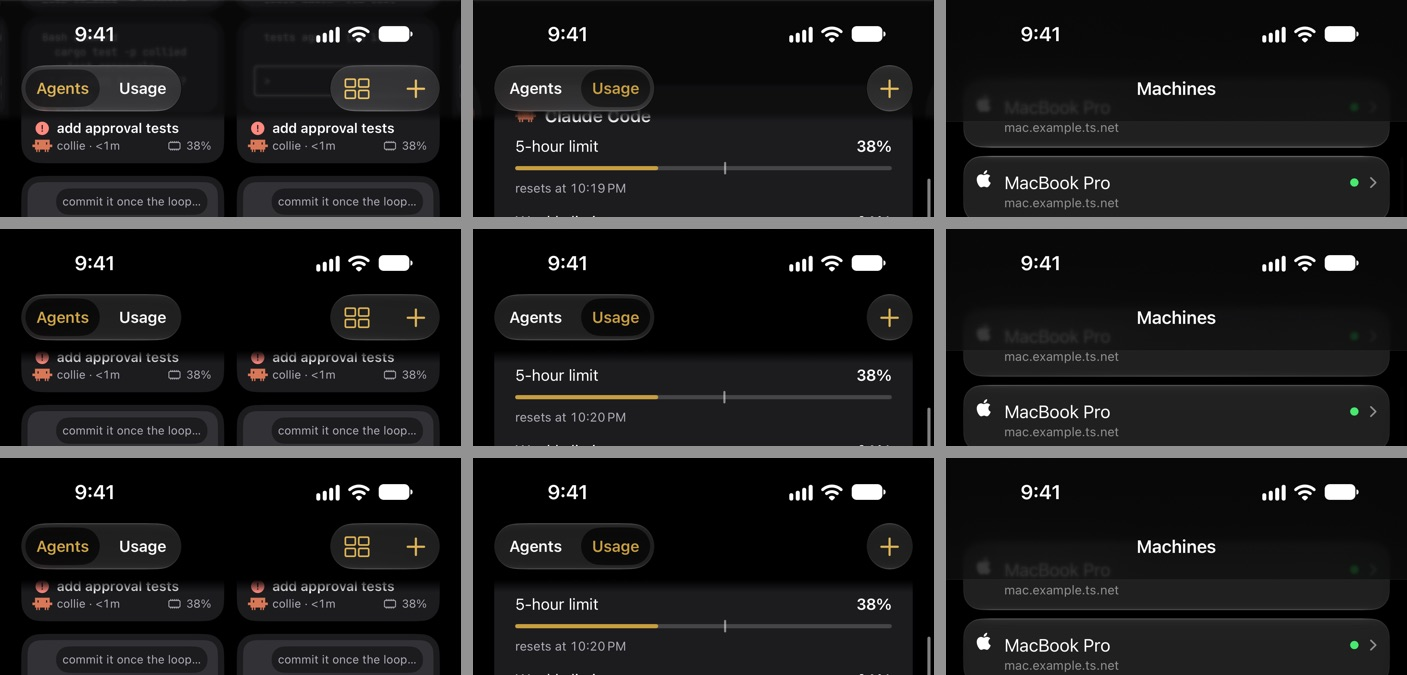
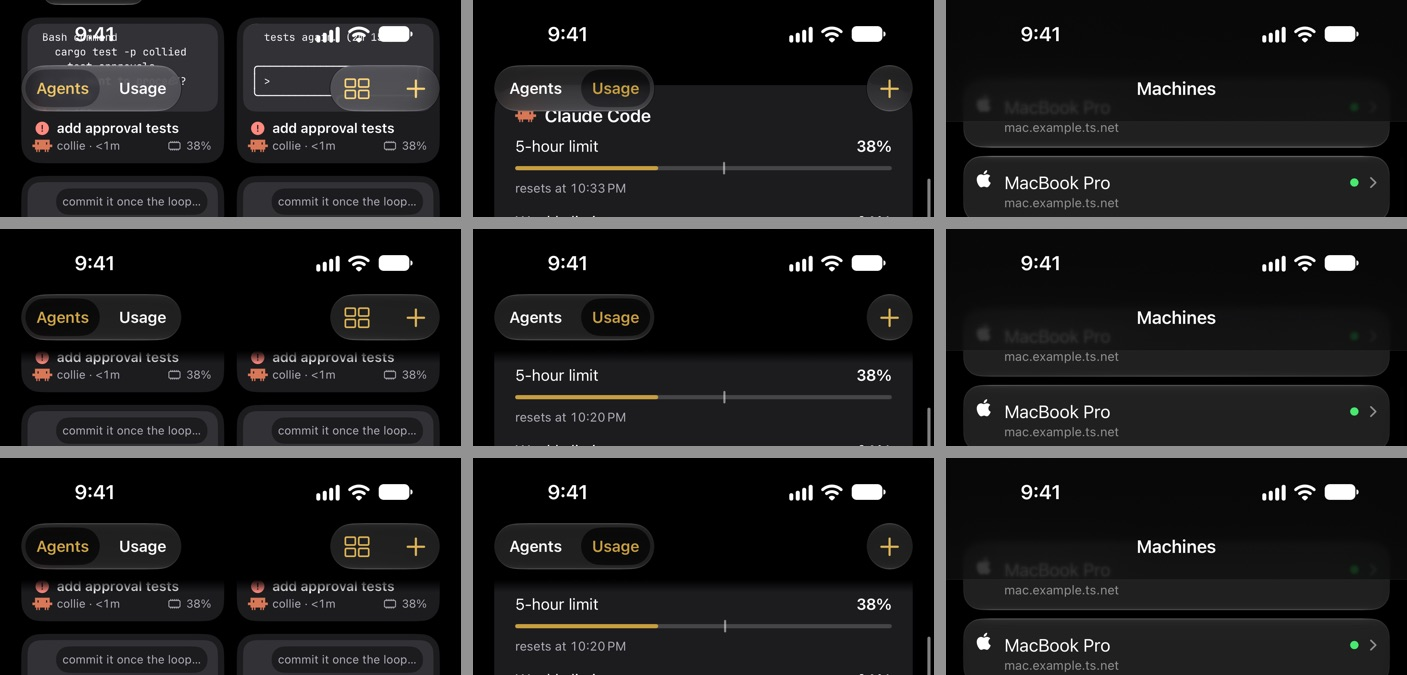
Leave the Agents tab's top band out with Clear glass

Changed region(s): [[0.0, 0.0, 0.3056, 0.1867], [0.3667, 0.1556, 0.4584, 0.1867]]

diff --git a/Collie/Sources/Collie/FlockScreen.swift b/Collie/Sources/Collie/FlockScreen.swift
@@ -53,12 +53,9 @@ struct FlockScreen: View {
             .scrollEdgeEffectHidden(true, for: [.top, .bottom])
             // UIKit's top scroll edge effect follows the pager, not the pages' own scroll views.
             .overlay(alignment: .top) {
-                GeometryReader { geometry in
-                    if glass == .clear {
-                        SessionBarGlass()
-                            .frame(height: geometry.safeAreaInsets.top)
-                            .offset(y: -geometry.safeAreaInsets.top)
-                    } else {
+                // Clear: nothing behind the bar but its controls' own glass, so content scrolls under it undimmed.
+                if glass != .clear {
+                    GeometryReader { geometry in
                         let background = Color(.systemGroupedBackground)
                         let height = geometry.safeAreaInsets.top + 12
                         // Solid under the whole bar: content fading out beside its glass controls showed through as a ghost,
@@ -69,8 +66,8 @@ struct FlockScreen: View {
                             .frame(height: height)
                             .offset(y: -geometry.safeAreaInsets.top)
                     }
+                    .allowsHitTesting(false)
                 }
-                .allowsHitTesting(false)
             }
             .springLoadingBehavior(.disabled)
             .animation(reduceMotion ? nil : .smooth(duration: 0.3), value: showsUsage)

diff --git a/Collie/Sources/Collie/AgentScreen.swift b/Collie/Sources/Collie/AgentScreen.swift
@@ -581,7 +581,7 @@ private struct AgentHeader: View {
     }
 }
 
-struct SessionBarGlass: View {
+private struct SessionBarGlass: View {
     /// The page under the approval band, which content fades into below its edge.
     var fade: Color?
     @Environment(\.colorScheme) private var colorScheme

diff --git a/docs/reviews/liquid-glass.md b/docs/reviews/liquid-glass.md
@@ -6,7 +6,7 @@ The app caps Dynamic Type at AccessibilityXL (`.dynamicTypeSize(...DynamicTypeSi
 
 - **Agent inbox:** segmented filters in a top inset the rows scroll under, across the full width, so all five fit on the iPhone 18 Pro Max and scroll only on narrower phones or with larger text. Search is a button in the toolbar capsule beside Layout and New task; it replaces the filters with the search field on its own glass and a close button, and leaves the capsule while the field is open, so one control ends search. The field's placeholder is in the metadata gray, as in New task (4.97:1 in light mode, 7.4:1 in dark; the system's placeholder gray measured 1.74:1 in light mode). A filter shows its one group without a section header, as the selected filter already names it, the first row 24 points under the filters. The filters and the search field hold still: pulling the rows or the empty state refreshes, with the spinner under them, and a drag on the filter row moves nothing. Each Agents page takes its own refresh, the inbox's on its list alone; on the pager it also reached the filter row's horizontal scroll view, whose refresh control let a drag beside the filters pull the row down out of sight. Rows, state badges and unread indicators stay content.
 - **Agent grid:** cards stay content, as terminal previews need a stable background. A chat preview's text sits 10 points from its panel's sides, closer to the terminal preview's inset than the 6 points it had, and 6 from the top and bottom, so the 84-point preview still fits a bubble and three lines. A terminal preview sits on the same inset panel as a chat preview, the tertiary fill over the card (239,239,240 in light mode, 50,50,54 in dark), drawn by the terminal as its background, so light text keeps its 4.5:1 floor against the panel (default text 9.9:1, dark mode white 12.8:1): the light terminal's own #FAFAFA measured 1.02:1 on the white card and lost the panel, and dark's blue-gray #282C34 clashed with the neutral chat panels. The session terminal keeps its theme; context menus use system styling. A preview's running subagents overlay is clear glass over the composer's dark dimming color, always dark, with white text.
-- **Every Agents page** (grid, list, inbox, Usage): navigation and tab bars keep system glass with no scroll edge effect or glass behind them, leaving only the picker, buttons and tab bar, each on its own glass. On Usage the capsule keeps only New task: Layout and Search hide rather than sit dimmed (2.1:1 to 2.3:1). Content runs under the tab bar at full clarity; under the top bar it fades into the page background across the status bar band, because the native top edge effect follows the pager, not each page's own scroll view, and left content readable behind the clock. The band is solid under the whole bar, as content fading out beside the bar's glass controls showed through as a ghost; under Clear glass it is the session header's band instead (Glass setting, below).
+- **Every Agents page** (grid, list, inbox, Usage): navigation and tab bars keep system glass with no scroll edge effect or glass behind them, leaving only the picker, buttons and tab bar, each on its own glass. On Usage the capsule keeps only New task: Layout and Search hide rather than sit dimmed (2.1:1 to 2.3:1). Content runs under the tab bar at full clarity; under the top bar it fades into the page background across the status bar band, because the native top edge effect follows the pager, not each page's own scroll view, and left content readable behind the clock. The band is solid under the whole bar, as content fading out beside the bar's glass controls showed through as a ghost; under Clear glass there is no band (Glass setting, below).
 - **Approvals:** glass on decision buttons, green for Approve and a red label for Deny; commands, notes and question choices stay content.
 - **Conversation:** glass on search, copy and navigation actions and on the activity and wake rows, never accent: tool names, wake lines and Copy are primary, icons, call counts (from two calls) and chevrons in the metadata gray (secondary gray measured 2.9:1 on this glass over a light chat); messages and code stay content, code blocks on the same tertiary fill as your message bubbles, in subheadline monospaced, as are inline code and the file paths in it (at body size, and even a step down at callout, its larger x-height outsized the prose), so code never outsizes body text. A code block's Copy turns into a green check mark (Copied) for three seconds, like the connection error's copy button. Your messages sit in neutral fill bubbles that hug short text at the trailing edge. A conversation shorter than the screen starts under the header, the same gap above it as a longer one has, rather than sitting low above the composer.
 - **Git changes / diff review:** glass from #205, unchanged.
@@ -70,7 +70,7 @@ Issue #722 adds **Settings > Appearance > Glass**, stored on the phone with the 
 `dim` says whether a surface sits on the dimming color (70% black in dark mode, 80% white in light): `.setting` under Clear and Opaque only, `.always` for the controls over busy content that had it before (composer, key strip, joystick, dictation, notes, approval decisions, Review, the countdown), and `.never` for controls on another dimmed surface or in a row or panel nothing scrolls under (copy buttons on cards and the prompt field, git review buttons, copy code, form rows). The modifier draws the dim itself, so no site pairs a flag with a background of its own; the paperclip, a UIKit button whose circle is inset in its hit area, keeps the background its caller draws.
 
 - **Regular**, the default, is the glass every surface drew before the setting, unchanged; nothing is added behind it.
-- **Clear** is `Glass.clear` (`.glass(.clear)` for buttons, `clearGlass()` for the paperclip) over the dimming color, as Apple's guidance asks for clear glass over busy content: content shows sharper and dimmed instead of blurred. The session header and approval band dim what shows through the clear glass instead, by 75% (black in dark mode, white in light): the dimming color under clear glass let a full chat run through the status row in dark mode and hid nearly everything in light mode. The band's cards and their buttons follow the setting like other controls. The Agents tab's top, on every page, takes the session header's band too, so the cards and Usage show dimmed under the status bar and the bar's controls, where Regular and Opaque keep the page's solid band: with the solid band, Clear left the top of the tab black in dark mode. Regular keeps the solid band rather than the header's regular glass, which showed the cards beside the picker and the buttons as blurred light shapes, most visibly in dark mode, the ghost the solid band was added to hide. Settings and Machines keep the system's scroll edge effect at every setting, nearly solid behind the clock and showing content blurred and dimmed under the lower half of the bar; under Clear the Agents band shows content sharp and evenly dimmed down to its feathered edge, behind the clock too.
+- **Clear** is `Glass.clear` (`.glass(.clear)` for buttons, `clearGlass()` for the paperclip) over the dimming color, as Apple's guidance asks for clear glass over busy content: content shows sharper and dimmed instead of blurred. The session header and approval band dim what shows through the clear glass instead, by 75% (black in dark mode, white in light): the dimming color under clear glass let a full chat run through the status row in dark mode and hid nearly everything in light mode. The band's cards and their buttons follow the setting like other controls. The Agents tab's top, on every page, has no band under Clear: the picker and the buttons float on their own glass over the cards and Usage, which run undimmed under them and under the status bar, as the cards do around the tab bar at the bottom. Those controls and the tab bar are system glass, outside the setting (below), so the two match. The clock and the status icons then sit directly over content: over a grid card's terminal preview or the list's approval pill they stay readable, cluttered, while the content under them does not. Regular and Opaque keep the page's solid band: under Regular the session header's regular glass showed the cards beside the picker and the buttons as blurred light shapes, most visibly in dark mode, the ghost the solid band was added to hide. Settings and Machines keep the system's scroll edge effect at every setting, nearly solid behind the clock and showing content blurred and dimmed under the lower half of the bar.
 - **Opaque** is regular glass over the dimming color mixed over the page, so nothing shows through and the contrast measured over the dim (the countdown, Deny) holds: the page is the terminal's or the chat's background on the agent screen, grouped gray on Agents and machine rows, the system background elsewhere. Under the header's feathered edge, content fades into the page as it does under the approval band, so a line crossing the edge does not read cut in half.
 - Not covered: the navigation bar, the tab bar, toolbar buttons and their shared capsule, sheets, menus and native segmented controls are drawn by the system and follow iOS's own Liquid Glass setting; SwiftUI offers only visibility for bar backgrounds, no glass variant, and the app does not replace them to force one. Accent-filled `.glassProminent` buttons take no glass variant and keep their look. The terminal's selection pop-up (Copy, Quote, Open), a transient UIKit glass button in the GhosttyTerminal package, keeps regular glass. The grid's running subagents overlay was already clear glass and stays so; under Opaque its dimming color becomes opaque. The watch app keeps its look.
 
@@ -78,6 +78,7 @@ Issue #722 adds **Settings > Appearance > Glass**, stored on the phone with the 
 | --- | --- |
 | ![Clear, Regular and Opaque over the terminal in light mode, the session header above and the composer below](images/glass-setting-light.jpg) | ![Clear, Regular and Opaque over the terminal in dark mode, the session header above and the composer below](images/glass-setting-dark.jpg) |
 | ![The top of Agents, Usage and Machines with cards scrolled under the bar, Clear, Regular and Opaque from top to bottom, in light mode](images/agents-top-glass-light.jpg) | ![The top of Agents, Usage and Machines with cards scrolled under the bar, Clear, Regular and Opaque from top to bottom, in dark mode](images/agents-top-glass-dark.jpg) |
+| ![The Agents grid and list under Clear, cards under the status bar, the top controls and the tab bar, in dark and light mode](images/agents-top-glass-clear.jpg) | |
 
 ## Validation
 

diff --git a/docs/site/src/app/agents-tab.md b/docs/site/src/app/agents-tab.md
@@ -46,4 +46,4 @@ A Rex agent offers the same actions as a Herdr Core agent. Closing it ends its p
 
 **Settings > Appearance > Accent color** sets the accent on this phone: None, Blue (the default), Orange, Green, Red or Dark Gold. None uses black or white for the highest contrast. Working agents show in the accent, as do their Live Activities and the Apple Watch's list; a Live Activity takes a new accent at its next update.
 
-**Settings > Appearance > Glass** sets how much of the terminal or the chat shows through the glass the app draws: Clear shows more of it, sharper but dimmed; Regular (the default) blurs it; Opaque hides it behind the page's own background. The choice applies at once. Under Clear, the session header dims what shows through more than the controls do, so its title and status stay readable over a full terminal or chat. Under Clear, the Agents tab's cards and Usage also show through under the top bar, dimmed the same way; Regular and Opaque keep the page's background there. The navigation bar, the tab bar and their buttons belong to iOS and follow its own Liquid Glass setting instead.
+**Settings > Appearance > Glass** sets how much of the terminal or the chat shows through the glass the app draws: Clear shows more of it, sharper but dimmed; Regular (the default) blurs it; Opaque hides it behind the page's own background. The choice applies at once. Under Clear, the session header dims what shows through more than the controls do, so its title and status stay readable over a full terminal or chat. Under Clear, the Agents tab's cards and Usage scroll under the top bar in full view, with only its buttons on glass, as at the tab bar; Regular and Opaque keep the page's background there. The navigation bar, the tab bar and their buttons belong to iOS and follow its own Liquid Glass setting instead.
